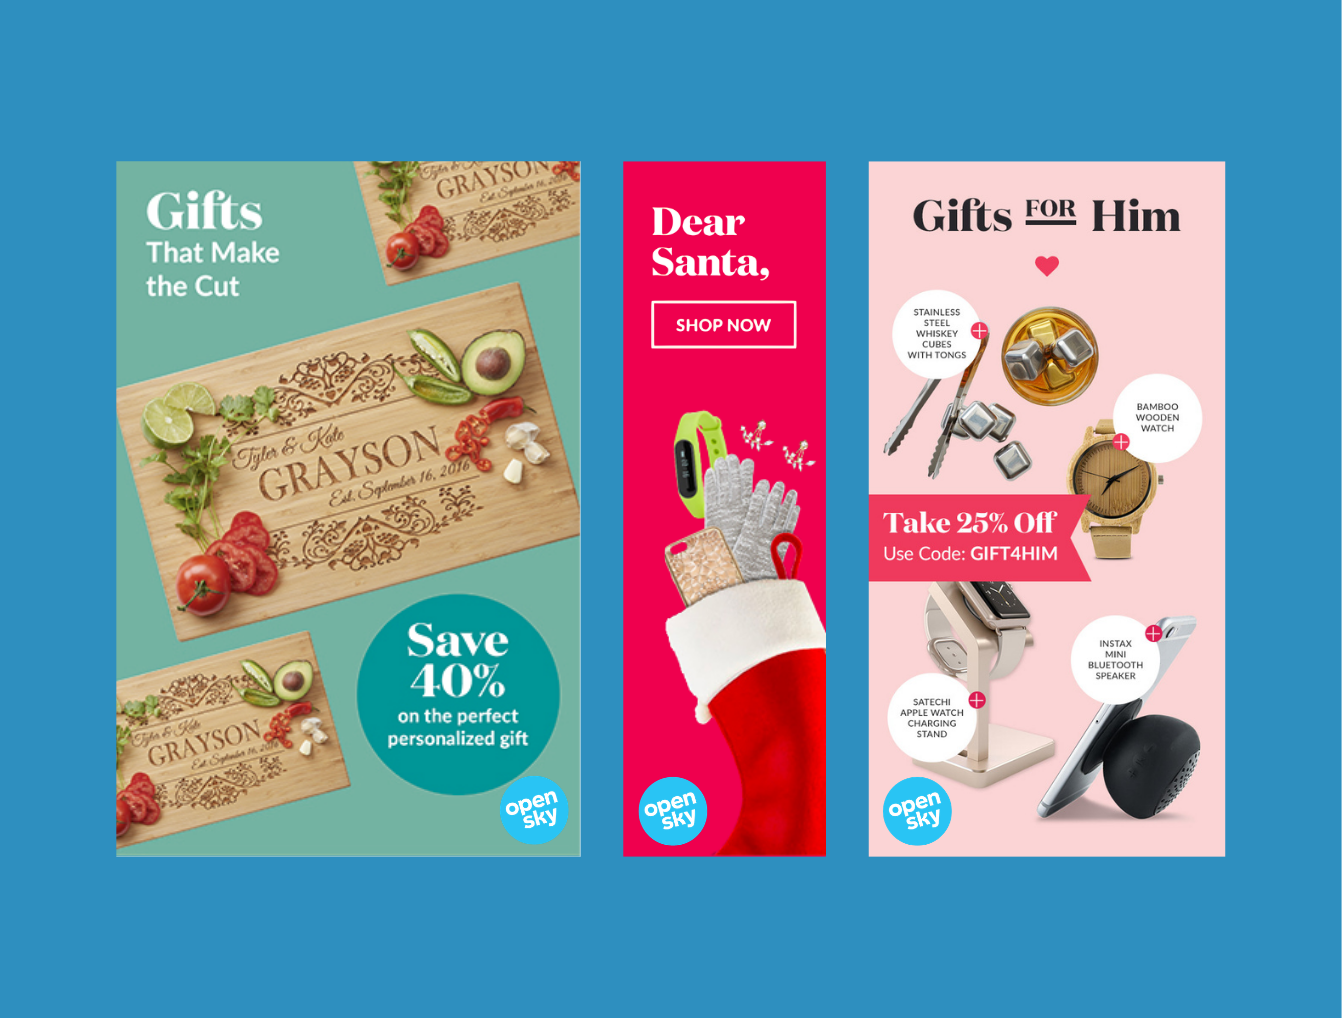
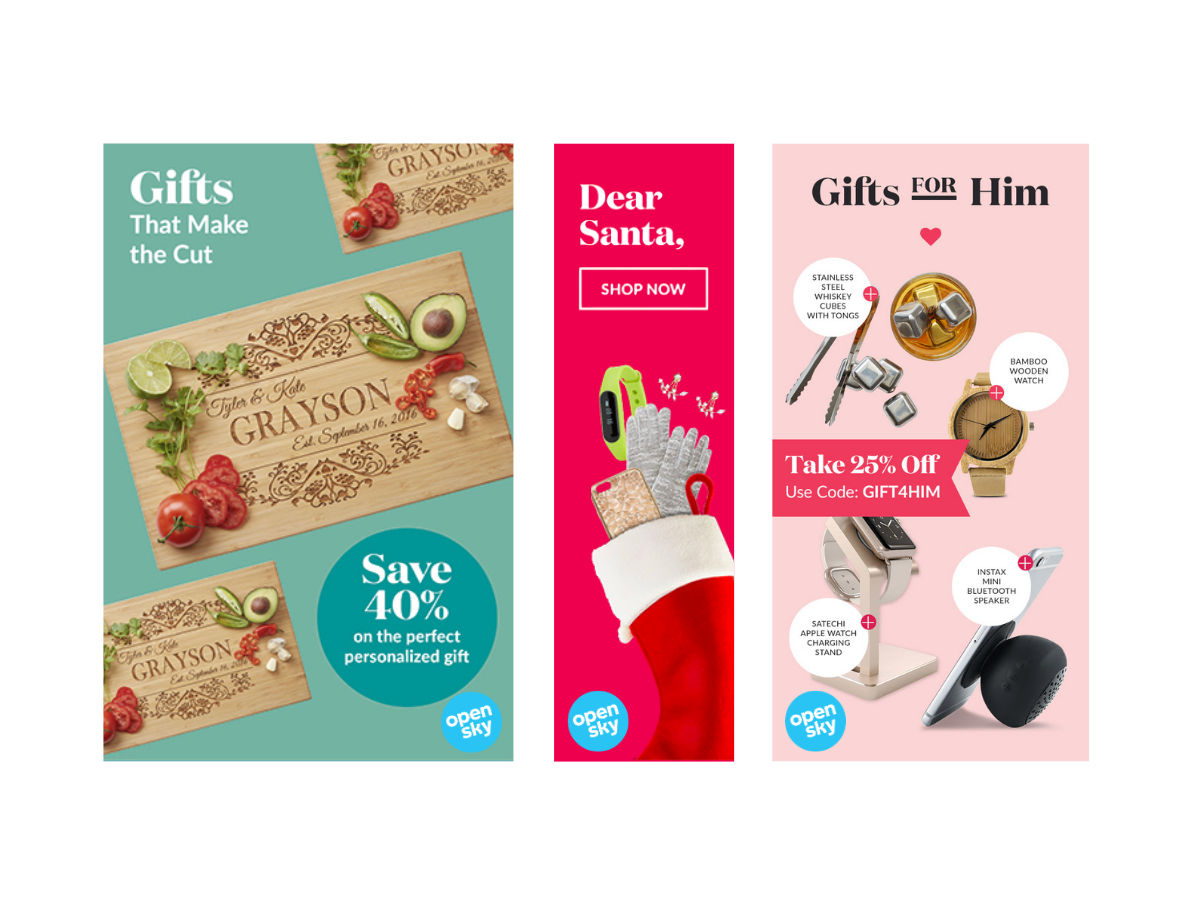
.

diff --git a/project-04.html b/project-04.html
@@ -144,7 +144,7 @@
         <div class="gallery-item"
           data-thumb="os-brand.png">
           <img src="os-brand.png" alt="" />
-          <div class="gallery-caption">Social & Ad Marketing</div>
+          <div class="gallery-caption">UI Brand Guidelines</div>
         </div>
 
 
